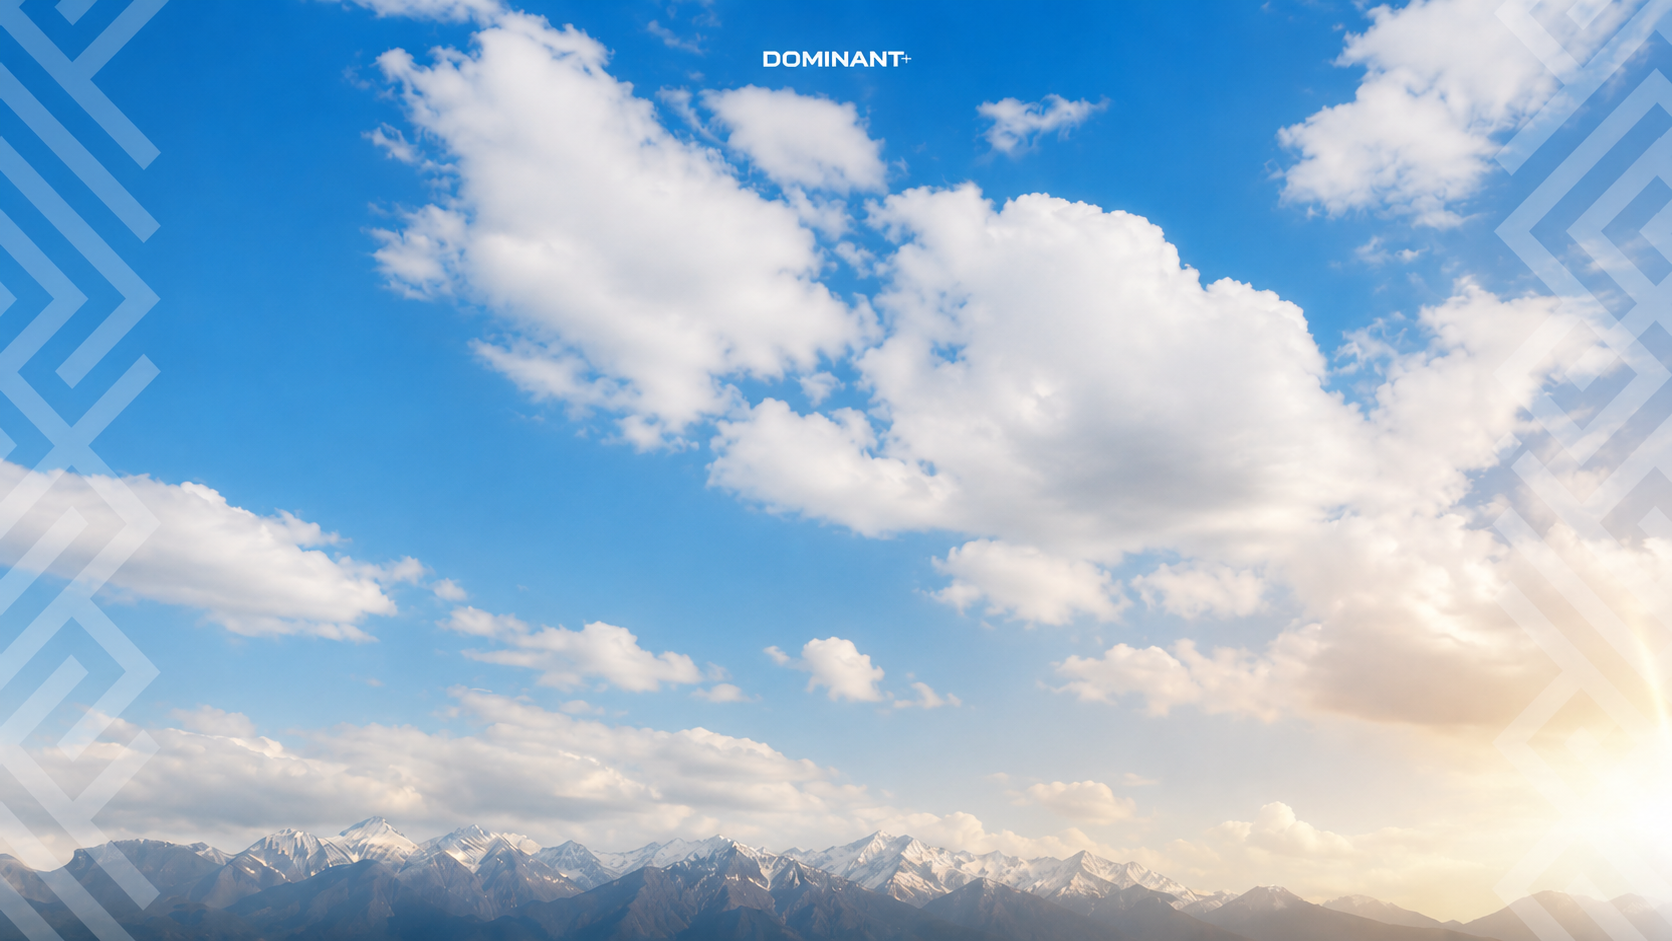
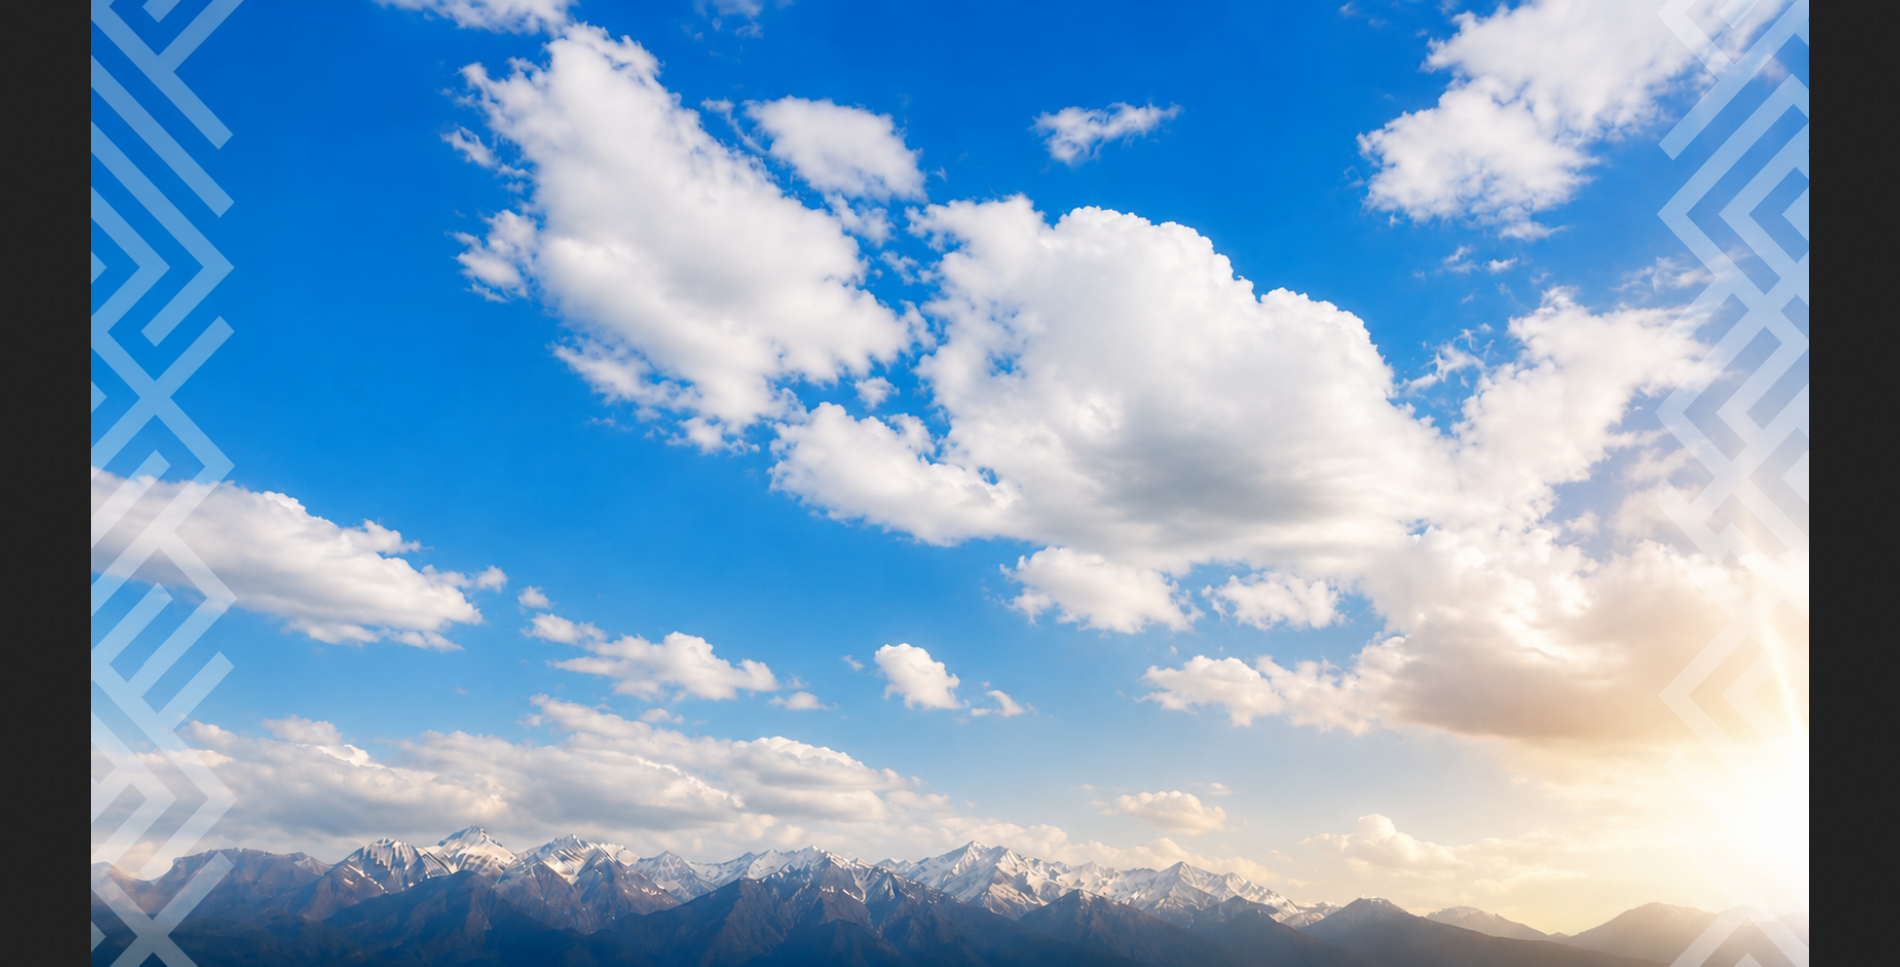
img fix

diff --git a/components/Hero.module.css b/components/Hero.module.css
@@ -15,7 +15,7 @@
 /* --- Sky background --- */
 .skyBg {
   position: fixed;
-  inset: 0;
+  inset: -10vh -5vw 0 -5vw;
   z-index: 0;
   will-change: transform;
 }
@@ -217,6 +217,14 @@
 }
 
 @media (max-width: 768px) {
+  .skyBg {
+    inset: auto;
+    top: -5vh;
+    left: 0;
+    width: 100%;
+    height: 110vh;
+  }
+
   .hero {
     min-height: 680px;
     justify-content: center;